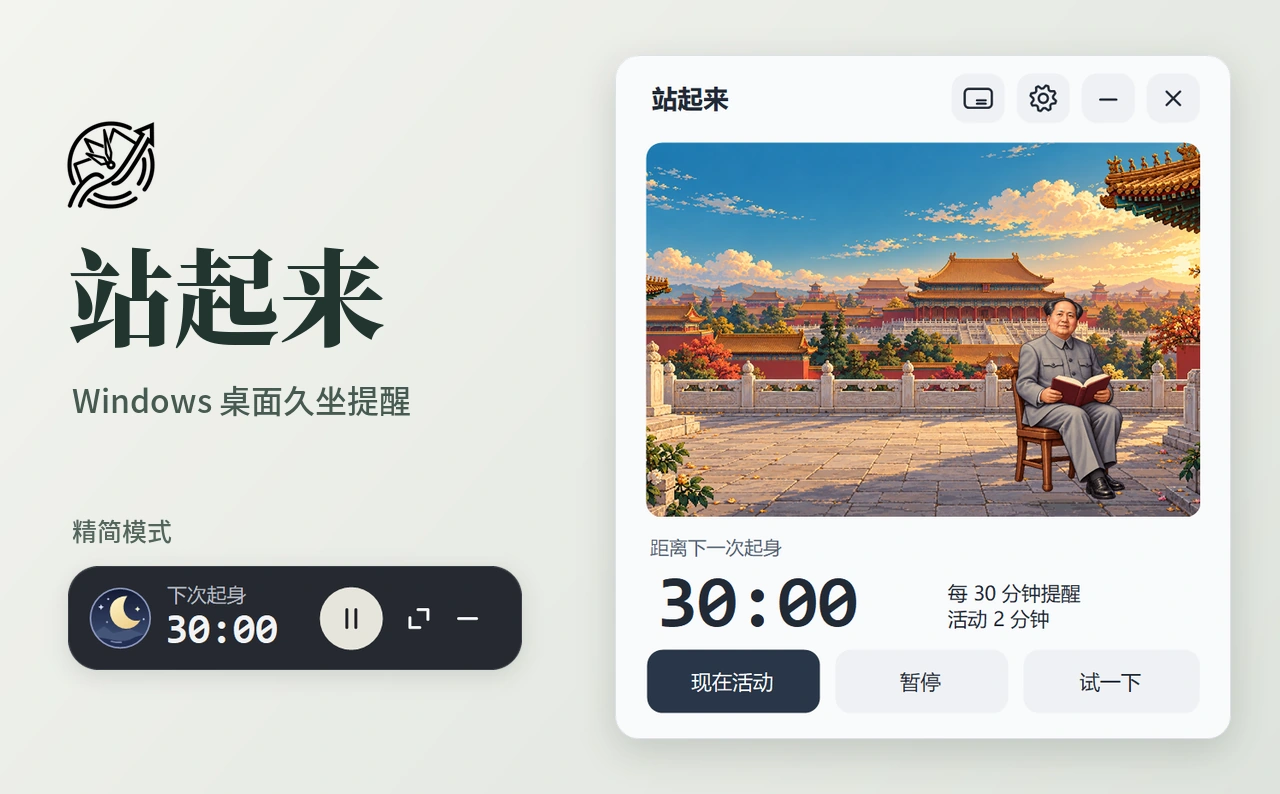
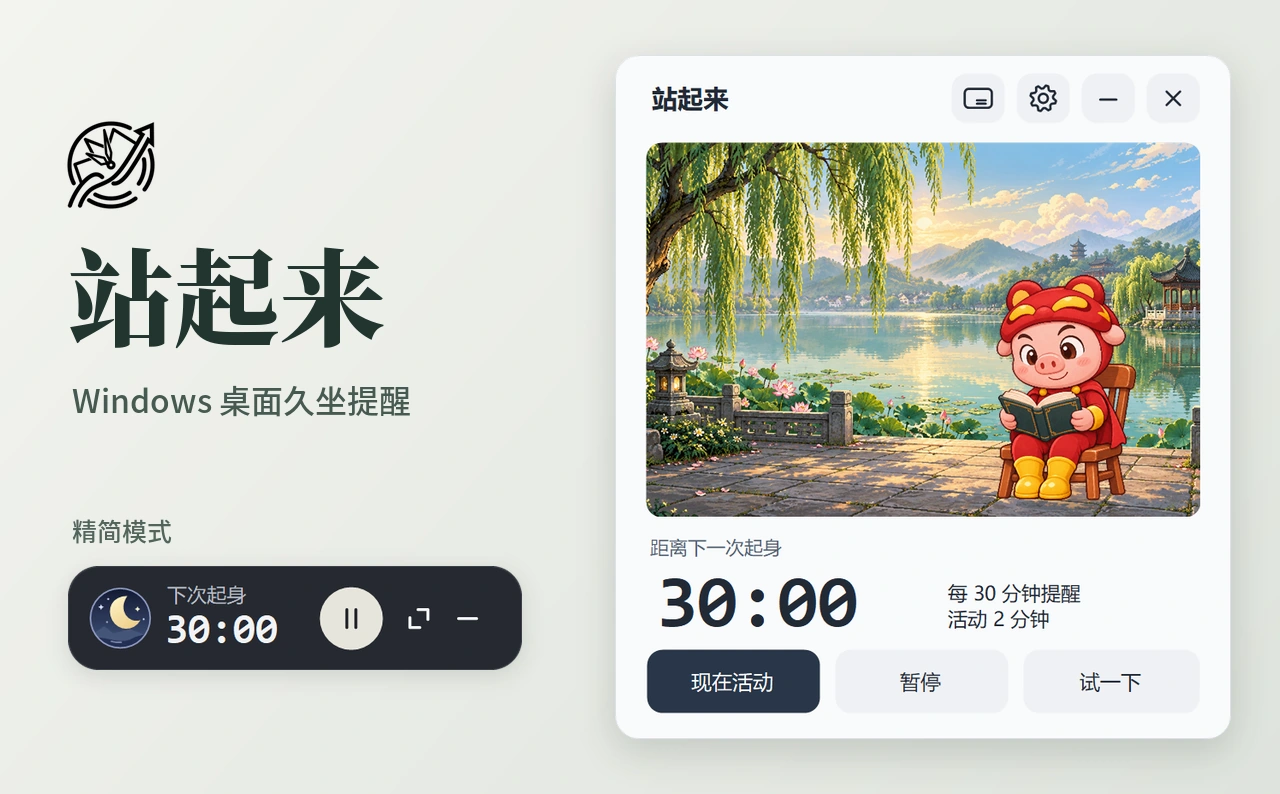
发布 1.8.1 并更新人物素材与授权说明

Changed region(s): [[0.5, 0.1814, 0.9375, 0.665]]

diff --git a/Program.cs b/Program.cs
@@ -24,7 +24,9 @@ namespace StandUp {
                 if(!File.Exists(PathName))return p;
                 using(XmlReader r=XmlReader.Create(PathName,new XmlReaderSettings{DtdProcessing=DtdProcessing.Prohibit,XmlResolver=null})){
                     XElement x=XDocument.Load(r).Root;if(x==null)return p;
-                    p.Person=N(x,"Person",0,0,CharacterLibrary.Names.Length-1);p.Scene=N(x,"Scene",0,0,SceneLibrary.Names.Length-1);p.Task=N(x,"Task",0,0,2);
+                    int savedPerson;
+                    if(int.TryParse((string)x.Element("Person"),out savedPerson))p.Person=CharacterLibrary.FromSavedId(savedPerson);
+                    p.Scene=N(x,"Scene",0,0,SceneLibrary.Names.Length-1);p.Task=N(x,"Task",0,0,2);
                     p.Minutes=N(x,"Minutes",30,1,180);p.RestMinutes=N(x,"RestMinutes",2,1,30);
                     p.Width=N(x,"Width",420,360,1100);p.Height=N(x,"Height",420,386,900);
                     if(x.Element("Theme")==null&&x.Element("Height")!=null)p.Height=Math.Max(386,p.Height-40);
@@ -42,7 +44,7 @@ namespace StandUp {
         public bool Save(){
             string temp=PathName+".tmp";
             try{
-                new XDocument(new XElement("StandUp",new XElement("Person",Person),new XElement("Scene",Scene),new XElement("Task",Task),
+                new XDocument(new XElement("StandUp",new XElement("Person",CharacterLibrary.ToSavedId(Person)),new XElement("Scene",Scene),new XElement("Task",Task),
                     new XElement("Minutes",Minutes),new XElement("RestMinutes",RestMinutes),new XElement("Top",Top?"true":"false"),new XElement("Sound",Sound?"true":"false"),
                     new XElement("Popup",Popup?"true":"false"),new XElement("StartCompact",StartCompact?"true":"false"),new XElement("CompactX",CompactX),new XElement("CompactY",CompactY),new XElement("DockSide",DockSide),new XElement("Wallpaper",Wallpaper),
                     new XElement("Width",Width),new XElement("Height",Height),new XElement("X",X),new XElement("Y",Y),new XElement("Theme",Theme))).Save(temp);
@@ -492,8 +494,12 @@ namespace StandUp {
         protected override void Dispose(bool disposing){
             if(disposing&&!IsDisposed){timer.Stop();timer.Dispose();if(compact!=null)compact.Dispose();if(reminder!=null)reminder.Dispose();if(settingsWindow!=null)settingsWindow.Dispose();else drawer.Dispose();tray.Visible=false;if(tray.ContextMenuStrip!=null)tray.ContextMenuStrip.Dispose();tray.Dispose();if(trayIcon!=null)trayIcon.Dispose();if(SceneView.ContextMenuStrip!=null)SceneView.ContextMenuStrip.Dispose();tip.Dispose();if(appIcon!=null)appIcon.Dispose();}base.Dispose(disposing);
         }
+        void PrepareAlertPreview(Saying quote){
+            Clock.TestAlert();SceneView.Quote=quote;SceneView.StandAmount=1;RefreshState();
+        }
         public void RenderPreview(string folder){
             Directory.CreateDirectory(folder);Show();timer.Stop();
+            Saying previewQuote=Array.Find(Sayings.All,q=>q.Person=="每日鼓励");
             Size=ScaledSize(360,400);SceneView.Scene=3;
             for(int i=0;i<UiTheme.Names.Length;i++){
                 ApplyTheme(UiTheme.FromIndex(i));
@@ -502,24 +508,24 @@ namespace StandUp {
             ApplyTheme(UiTheme.White);
             foreach(int w in new[]{360,420,640}){
                 Size=ScaledSize(w,478);Clock.StartWork(DateTime.UtcNow,TimeSpan.FromMinutes(30));SceneView.StandAmount=0;SceneView.Person=0;SceneView.Scene=0;SceneView.Quote=null;RefreshState();CaptureImage(folder,"工作-"+w+".png");
-                Clock.TestAlert();SceneView.StandAmount=1;RefreshState();CaptureImage(folder,"提醒-"+w+".png");
+                PrepareAlertPreview(previewQuote);CaptureImage(folder,"提醒-"+w+".png");
             }
-            Size=ScaledSize(420,478);SceneView.Person=1;SceneView.Scene=1;SceneView.Quote=Sayings.All[4];Clock.TestAlert();SceneView.Quote=Sayings.All[4];SceneView.StandAmount=1;RefreshState();CaptureImage(folder,"周总理-湖边.png");
-            SceneView.Scene=2;CaptureImage(folder,"周总理-庭院.png");
+            Size=ScaledSize(420,478);SceneView.Person=1;SceneView.Scene=1;PrepareAlertPreview(previewQuote);CaptureImage(folder,"慢羊羊村长-湖边.png");
+            SceneView.Scene=2;CaptureImage(folder,"慢羊羊村长-庭院.png");
             for(int sc=0;sc<SceneLibrary.Names.Length;sc++){
                 SceneView.Scene=sc;SceneView.Person=0;SceneView.Quote=null;SceneView.StandAmount=0;Clock.StartWork(DateTime.UtcNow,TimeSpan.FromMinutes(30));RefreshState();CaptureImage(folder,"场景-"+SceneLibrary.Keys[sc]+".png");
-                Clock.TestAlert();SceneView.StandAmount=1;RefreshState();CaptureImage(folder,"站起-"+SceneLibrary.Keys[sc]+".png");
+                PrepareAlertPreview(previewQuote);CaptureImage(folder,"站起-"+SceneLibrary.Keys[sc]+".png");
             }
             ToggleDrawer();ApplyTheme(UiTheme.Black);themeChoice.SelectedIndex=1;CaptureForm(settingsWindow,folder,"设置-黑色.png");ToggleDrawer();
             ApplyTheme(UiTheme.White);
-            Saying longest=Sayings.All[6];foreach(Saying q in Sayings.All)if(q.Person=="每日鼓励"&&q.Text.Length>longest.Text.Length)longest=q;
-            Clock.TestAlert();SceneView.Quote=longest;SceneView.StandAmount=1;Size=ScaledSize(360,478);RefreshState();CaptureImage(folder,"励志语录-小窗口.png");
+            Saying longest=previewQuote;foreach(Saying q in Sayings.All)if(q.Person=="每日鼓励"&&q.Text.Length>longest.Text.Length)longest=q;
+            Size=ScaledSize(360,478);PrepareAlertPreview(longest);CaptureImage(folder,"励志语录-小窗口.png");
             Size=ScaledSize(420,478);CaptureImage(folder,"励志语录-新版.png");
             Size=ScaledSize(360,400);
             for(int p=0;p<CharacterLibrary.Names.Length;p++){
-                SceneView.Person=p;SceneView.Scene=p<2?3:1;SceneView.Quote=null;SceneView.StandAmount=0;
+                SceneView.Person=p;SceneView.Scene=1;SceneView.Quote=null;SceneView.StandAmount=0;
                 Clock.StartWork(DateTime.UtcNow,TimeSpan.FromMinutes(30));RefreshState();CaptureImage(folder,CharacterLibrary.Keys[p]+"-坐下.png");
-                Clock.TestAlert();SceneView.StandAmount=1;RefreshState();CaptureImage(folder,CharacterLibrary.Keys[p]+"-站起.png");
+                PrepareAlertPreview(previewQuote);CaptureImage(folder,CharacterLibrary.Keys[p]+"-站起.png");
             }
             Clock.StartWork(DateTime.UtcNow,TimeSpan.FromMinutes(30));SceneView.Quote=null;EnterCompact(false);CaptureForm(compact,folder,"精简模式.png");
             for(int i=0;i<UiTheme.Names.Length;i++){
@@ -530,7 +536,7 @@ namespace StandUp {
             foreach(DockEdge edge in CompactDock.Edges)if(CompactDock.IsAllowed(edge,taskbars)){
                 compact.RestorePlacement(compact.RememberedLocation,(int)edge);compact.ShowCompact(compact.Location,false);CaptureForm(compact,folder,"贴边把手.png");break;
             }
-            Clock.TestAlert();ShowReminderPopup();CaptureForm(reminder,folder,"提醒气泡.png");Close();
+            PrepareAlertPreview(previewQuote);ShowReminderPopup();CaptureForm(reminder,folder,"提醒气泡.png");Close();
         }
         public bool IsFirstFrameReady(){
             return !Visible&&digits.Text.Length>0&&caption.Text.Length>0&&status.Text.Length>0&&main.Text=="现在活动"&&pause.Text=="暂停";
@@ -563,7 +569,7 @@ namespace StandUp {
             }
             person.SelectedIndex=1;scene.SelectedIndex=1;task.SelectedIndex=1;minutes.Value=17;rest.Value=3;apply.PerformClick();
             check(SceneView.Person==1&&SceneView.Scene==1&&SceneView.Task==1&&Clock.Duration==TimeSpan.FromMinutes(17),"apply settings");
-            for(int p=2;p<CharacterLibrary.Names.Length;p++){
+            for(int p=0;p<CharacterLibrary.Names.Length;p++){
                 person.SelectedIndex=p;apply.PerformClick();
                 check(SceneView.Person==p,"animated companion selectable from settings");
             }

diff --git a/SelfTests.cs b/SelfTests.cs
@@ -112,7 +112,10 @@ namespace StandUp {
             for(int i=0;i<25;i++)Check(picker.Pick().Id==resumed.Pick().Id,"same unseen queue after restart");
             File.WriteAllText(stateTest,"<Quotes Version=\"1\" PoolSize=\"126\" Last=\"\"><Next>unknown</Next></Quotes>");Check(!resumed.Load(stateTest),"invalid history safely rejected");File.Delete(stateTest);
             Check(SceneLibrary.Names.Length==5&&SceneLibrary.Keys.Length==5,"all five scenes selectable");
+            Check(CharacterLibrary.Names.Length==3&&CharacterLibrary.Keys.Length==3,"three available companions");
+            Check(CharacterLibrary.FromSavedId(0)==0&&CharacterLibrary.FromSavedId(1)==0,"unsupported saved companions use the default");
             for(int p=0;p<CharacterLibrary.Names.Length;p++){
+                Check(CharacterLibrary.FromSavedId(p+2)==p&&CharacterLibrary.ToSavedId(p)==p+2,"stable saved companion ID");
                 CharacterArt art=ArtAssets.Character(p);
                 Check(art.Atlas.GetPixel(0,0).A<=2&&art.Atlas.GetPixel(art.Atlas.Width/2,art.Atlas.Height/2).A<=2,"character transparent alpha");
                 Check(art.Standing.Width>0&&art.Seated.Width>0,"both character poses");
@@ -120,7 +123,7 @@ namespace StandUp {
             }
             using(MainWindow w=new MainWindow(false))Check(w.IsFirstFrameReady(),"production startup fills controls before Show");
             using(MainWindow w=new MainWindow(true))checks+=w.CheckInterface();
-            File.WriteAllText(output,"PASS: "+checks+" assertions\r\nTimer: deadlines, sleep/wake, pause/resume, snooze, rest completion, explicit next cycle.\r\nQuotes: 126 unique entries, 3 full shuffle cycles without repeats, history persistence, honest attribution.\r\nArtwork: transparent embedded sprites, 5 characters x 5 scenes x 3 transition frames.\r\nInterface: 7 themes, companion selection, settings scroll and layout, next quote preserves timing, compact dock/reveal, minimized reminders.\r\n",new UTF8Encoding(false));
+            File.WriteAllText(output,"PASS: "+checks+" assertions\r\nTimer: deadlines, sleep/wake, pause/resume, snooze, rest completion, explicit next cycle.\r\nQuotes: 126 unique entries, 3 full shuffle cycles without repeats, history persistence, honest attribution.\r\nArtwork: transparent embedded sprites, 3 characters x 5 scenes x 3 transition frames.\r\nInterface: 7 themes, companion selection, settings scroll and layout, next quote preserves timing, compact dock/reveal, minimized reminders.\r\n",new UTF8Encoding(false));
         }
     }
 }

diff --git a/ArtAssets.cs b/ArtAssets.cs
@@ -11,9 +11,12 @@ namespace StandUp {
         public static readonly string[] Keys={"tree","lake","garden","forbidden-city","himalaya"};
     }
     public static class CharacterLibrary {
-        // Keep the original first two indexes to preserve existing settings.xml selections.
-        public static readonly string[] Names={"毛主席","周总理","猪猪侠","慢羊羊村长","橙留香"};
-        public static readonly string[] Keys={"mao-reading","zhou-reading","gg-bond","slow-goat","orange-hero-v16"};
+        public static readonly string[] Names={"猪猪侠","慢羊羊村长","橙留香"};
+        public static readonly string[] Keys={"gg-bond","slow-goat","orange-hero-v16"};
+        // The selection list can change independently of the IDs saved in settings.xml.
+        static readonly int[] SavedIds={2,3,4};
+        internal static int FromSavedId(int id){return Math.Max(0,Array.IndexOf(SavedIds,id));}
+        internal static int ToSavedId(int index){return SavedIds[index];}
     }
     public sealed class CharacterArt {
         public readonly Bitmap Atlas;

diff --git a/AssemblyInfo.cs b/AssemblyInfo.cs
@@ -2,5 +2,5 @@ using System.Reflection;
 [assembly: AssemblyTitle("站起来 · 桌面小憩")]
 [assembly: AssemblyDescription("离线便携像素风久坐提醒程序")]
 [assembly: AssemblyProduct("StandUp Portable")]
-[assembly: AssemblyVersion("1.8.0.0")]
-[assembly: AssemblyFileVersion("1.8.0.0")]
+[assembly: AssemblyVersion("1.8.1.0")]
+[assembly: AssemblyFileVersion("1.8.1.0")]

diff --git a/使用说明.md b/使用说明.md
@@ -6,9 +6,9 @@
 
 ## 怎么用
 
-1. 双击程序，默认毛主席在树下坐着，从 30 分钟开始计时。
+1. 双击程序，默认从 30 分钟开始计时，画面中猪猪侠坐在树下读书。
 2. 拖动窗口标题或场景可以移动，拖动窗口边缘或角落可以缩放。右上角四个图标从左到右依次是 **精简模式、设置、最小化、关闭**。
-3. 点右上角的 **齿轮** 打开独立设置窗口。屏幕空间不足时，可在设置里用滚轮查看下面的选项。主题有 **白色、黑色、青绿、海蓝、银色、红色、粉色**，默认使用白色，主窗口、精简窗口和提醒气泡一起切换。精简窗口左侧图案分别对应日景、月夜、绿树、海浪、星河、红花田和粉花田。人物可选毛主席、周总理、猪猪侠、慢羊羊村长和橙留香。点 **保存设置** 生效。只换主题、人物或壁纸时，当前倒计时会继续。
+3. 点右上角的 **齿轮** 打开独立设置窗口。屏幕空间不足时，可在设置里用滚轮查看下面的选项。主题有 **白色、黑色、青绿、海蓝、银色、红色、粉色**，默认使用白色，主窗口、精简窗口和提醒气泡一起切换。精简窗口左侧图案分别对应日景、月夜、绿树、海浪、星河、红花田和粉花田。人物可选猪猪侠、慢羊羊村长和橙留香。点 **保存设置** 生效。只换主题、人物或壁纸时，当前倒计时会继续。
 4. 到点后，人物站起，气泡显示 **站起来！** 和随机励志语录。所有人物共用同一份 `quotes.txt`。
 5. 点 **开始活动**，进入活动倒计时；或点 **稍后1分钟** 延后。活动期间可暂停、继续、提前结束。
 6. 活动时间到后保持站立，等待你点击 **下一轮**。不会把计时结束当成你已经运动，也不会自动开始新一轮久坐。
@@ -41,7 +41,7 @@
 
 ## 源码与验证
 
-项目根目录包含 C# 源码、应用清单、图标与 `build.ps1`。在 Windows PowerShell 中运行 `.\build.ps1` 即可生成便携版，构建所需的十张图片都在 `assets/` 中。[画面与图标](https://github.com/Vinevil/StandUp/blob/main/docs/artwork.md)列出了当前版本使用的素材与制作方式。
+项目根目录包含 C# 源码、应用清单、图标与 `build.ps1`。在 Windows PowerShell 中运行 `.\build.ps1` 即可生成便携版，构建所需的八张图片都在 `assets/` 中。[画面与图标](https://github.com/Vinevil/StandUp/blob/main/docs/artwork.md)列出了当前版本使用的素材与制作方式。随程序附带的 [素材与授权说明](NOTICE.md) 记录了第三方角色和语录的来源与使用范围。
 
 开发验证命令：
 

diff --git a/README.md b/README.md
@@ -2,9 +2,9 @@
 
 一款 Windows 桌面久坐提醒器。工作时，画面里的人物坐着读书；到了你设定的时间，他会合上书站起来，送上一句鼓励。你也可以把倒计时收成屏幕边缘的一道细线。
 
-**[下载 Windows 免安装版](https://github.com/Vinevil/StandUp/releases/download/v1.8.0/StandUp-1.8.0-Windows.zip)**　·　[版本记录](https://github.com/Vinevil/StandUp/releases)　·　[使用说明](使用说明.md)
+**[下载 Windows 免安装版](https://github.com/Vinevil/StandUp/releases/download/v1.8.1/StandUp-1.8.1-Windows.zip)**　·　[版本记录](https://github.com/Vinevil/StandUp/releases)　·　[使用说明](使用说明.md)
 
-![主窗口中的场景、读书的人物，以及精简模式下的倒计时](docs/images/standup-preview.webp)
+![猪猪侠在湖边坐着读书，旁边是精简模式的倒计时](docs/images/standup-preview.webp)
 
 ## 开始第一轮
 
@@ -22,7 +22,7 @@
 
 精简或最小化时，到点会弹出带语录的小气泡。想看人物站起，可以在设置里选择到点打开主窗口。
 
-<p align="center"><img src="docs/images/standup-reminder.webp" width="420" alt="周恩来在湖边合书起身，窗口显示鼓励语录，并提供开始活动和稍后提醒两个选择"></p>
+<p align="center"><img src="docs/images/standup-reminder.webp" width="420" alt="猪猪侠在湖边合书站起来，提醒气泡显示一句原创鼓励，底部可开始活动或延后提醒"></p>
 
 ## 换一幅风景，留一句自己的话
 
@@ -40,4 +40,8 @@
 .\build.ps1
 ```
 
-生成的程序位于 `便携版\站起来.exe`。[使用与自测说明](使用说明.md) · [画面制作说明](docs/artwork.md) · [语录出处](语录出处.md)
+生成的程序位于 `便携版\站起来.exe`。[使用与自测说明](使用说明.md) · [画面制作说明](docs/artwork.md)
+
+## 素材与语录
+
+场景和角色图集由图像生成工具绘制。动画角色原作及相关标识的权利归相应权利人。历史语录保留作者和出处。[素材与授权说明](NOTICE.md) · [语录出处](语录出处.md)

diff --git a/docs/artwork.md b/docs/artwork.md
@@ -1,15 +1,10 @@
 # 画面与图标
 
-五张场景和五张人物图集使用图像生成工具绘制。程序将它们嵌入可执行文件，离线即可显示。每张人物图集包含两种姿势，一侧站立、手边拿合起的书，另一侧坐下、捧着打开的书。
+五张场景和三张人物图集使用图像生成工具绘制。程序将它们嵌入可执行文件，离线即可显示。每张人物图集包含两种姿势，一侧站立、手边拿合起的书，另一侧坐下、捧着打开的书。
 
-| 场景 | 人物 |
-| --- | --- |
-| [树下](../assets/tree.png) | [毛主席](../assets/mao-reading.png) |
-| [湖边](../assets/lake.png) | [周恩来](../assets/zhou-reading.png) |
-| [江南庭院](../assets/garden.png) | [猪猪侠](../assets/gg-bond.png) |
-| [紫禁城](../assets/forbidden-city.png) | [慢羊羊](../assets/slow-goat.png) |
-| [喜马拉雅山](../assets/himalaya.png) | [橙留香](../assets/orange-hero-v16.png) |
+- **场景**　[树下](../assets/tree.png) · [湖边](../assets/lake.png) · [江南庭院](../assets/garden.png) · [紫禁城](../assets/forbidden-city.png) · [喜马拉雅山](../assets/himalaya.png)
+- **人物**　[猪猪侠](../assets/gg-bond.png) · [慢羊羊](../assets/slow-goat.png) · [橙留香](../assets/orange-hero-v16.png)
 
-人物可以与任一场景组合。动画人物分别来源于《猪猪侠》《喜羊羊与灰太狼》和《果宝特攻》，图集中采用了为本程序重新绘制的形象。
+人物可以与任一场景组合。动画人物分别来源于《猪猪侠》《喜羊羊与灰太狼》和《果宝特攻》，图集中采用了为本程序重新绘制的形象。[素材与授权说明](../NOTICE.md)
 
 应用图标取意于时间与起身。长短表针分出三个山形，上升箭头和右下方的断弧呼应艮卦。图标由程序中的绘图代码生成。[图标源文件](../AppMark.cs)

diff --git a/NOTICE.md b/NOTICE.md
@@ -1,0 +1,9 @@
+# 素材与授权说明
+
+**第三方角色。** 猪猪侠、慢羊羊与橙留香分别出自《猪猪侠》《喜羊羊与灰太狼》和《果宝特攻》。角色原作及相关标识的权利归相应权利人。程序所附图集由图像生成工具重新绘制。项目未随附第三方角色授权文件，也未声明得到原作方的合作或背书。
+
+**语录与场景。** 程序收录少量历史摘句，并记录作者、作品或转引来源。场景图为生成插画。引用来源和素材说明仅供识别与查证，转载、再分发、改编或商用所需的权利请向相应权利人另行确认。[语录出处](语录出处.md)
+
+**发布范围。** 本项目通过 GitHub 私有仓库提供。仓库访问和软件下载权限本身不授予素材的再使用权。本项目未声明统一的开源许可。
+
+**权利反馈。** 如对某条语录、图片或其他素材有权利疑问，请在项目的 Issue 中附上素材名称、所在位置和可核对的来源。维护者会核对并处理。[提交反馈](https://github.com/Vinevil/StandUp/issues)
